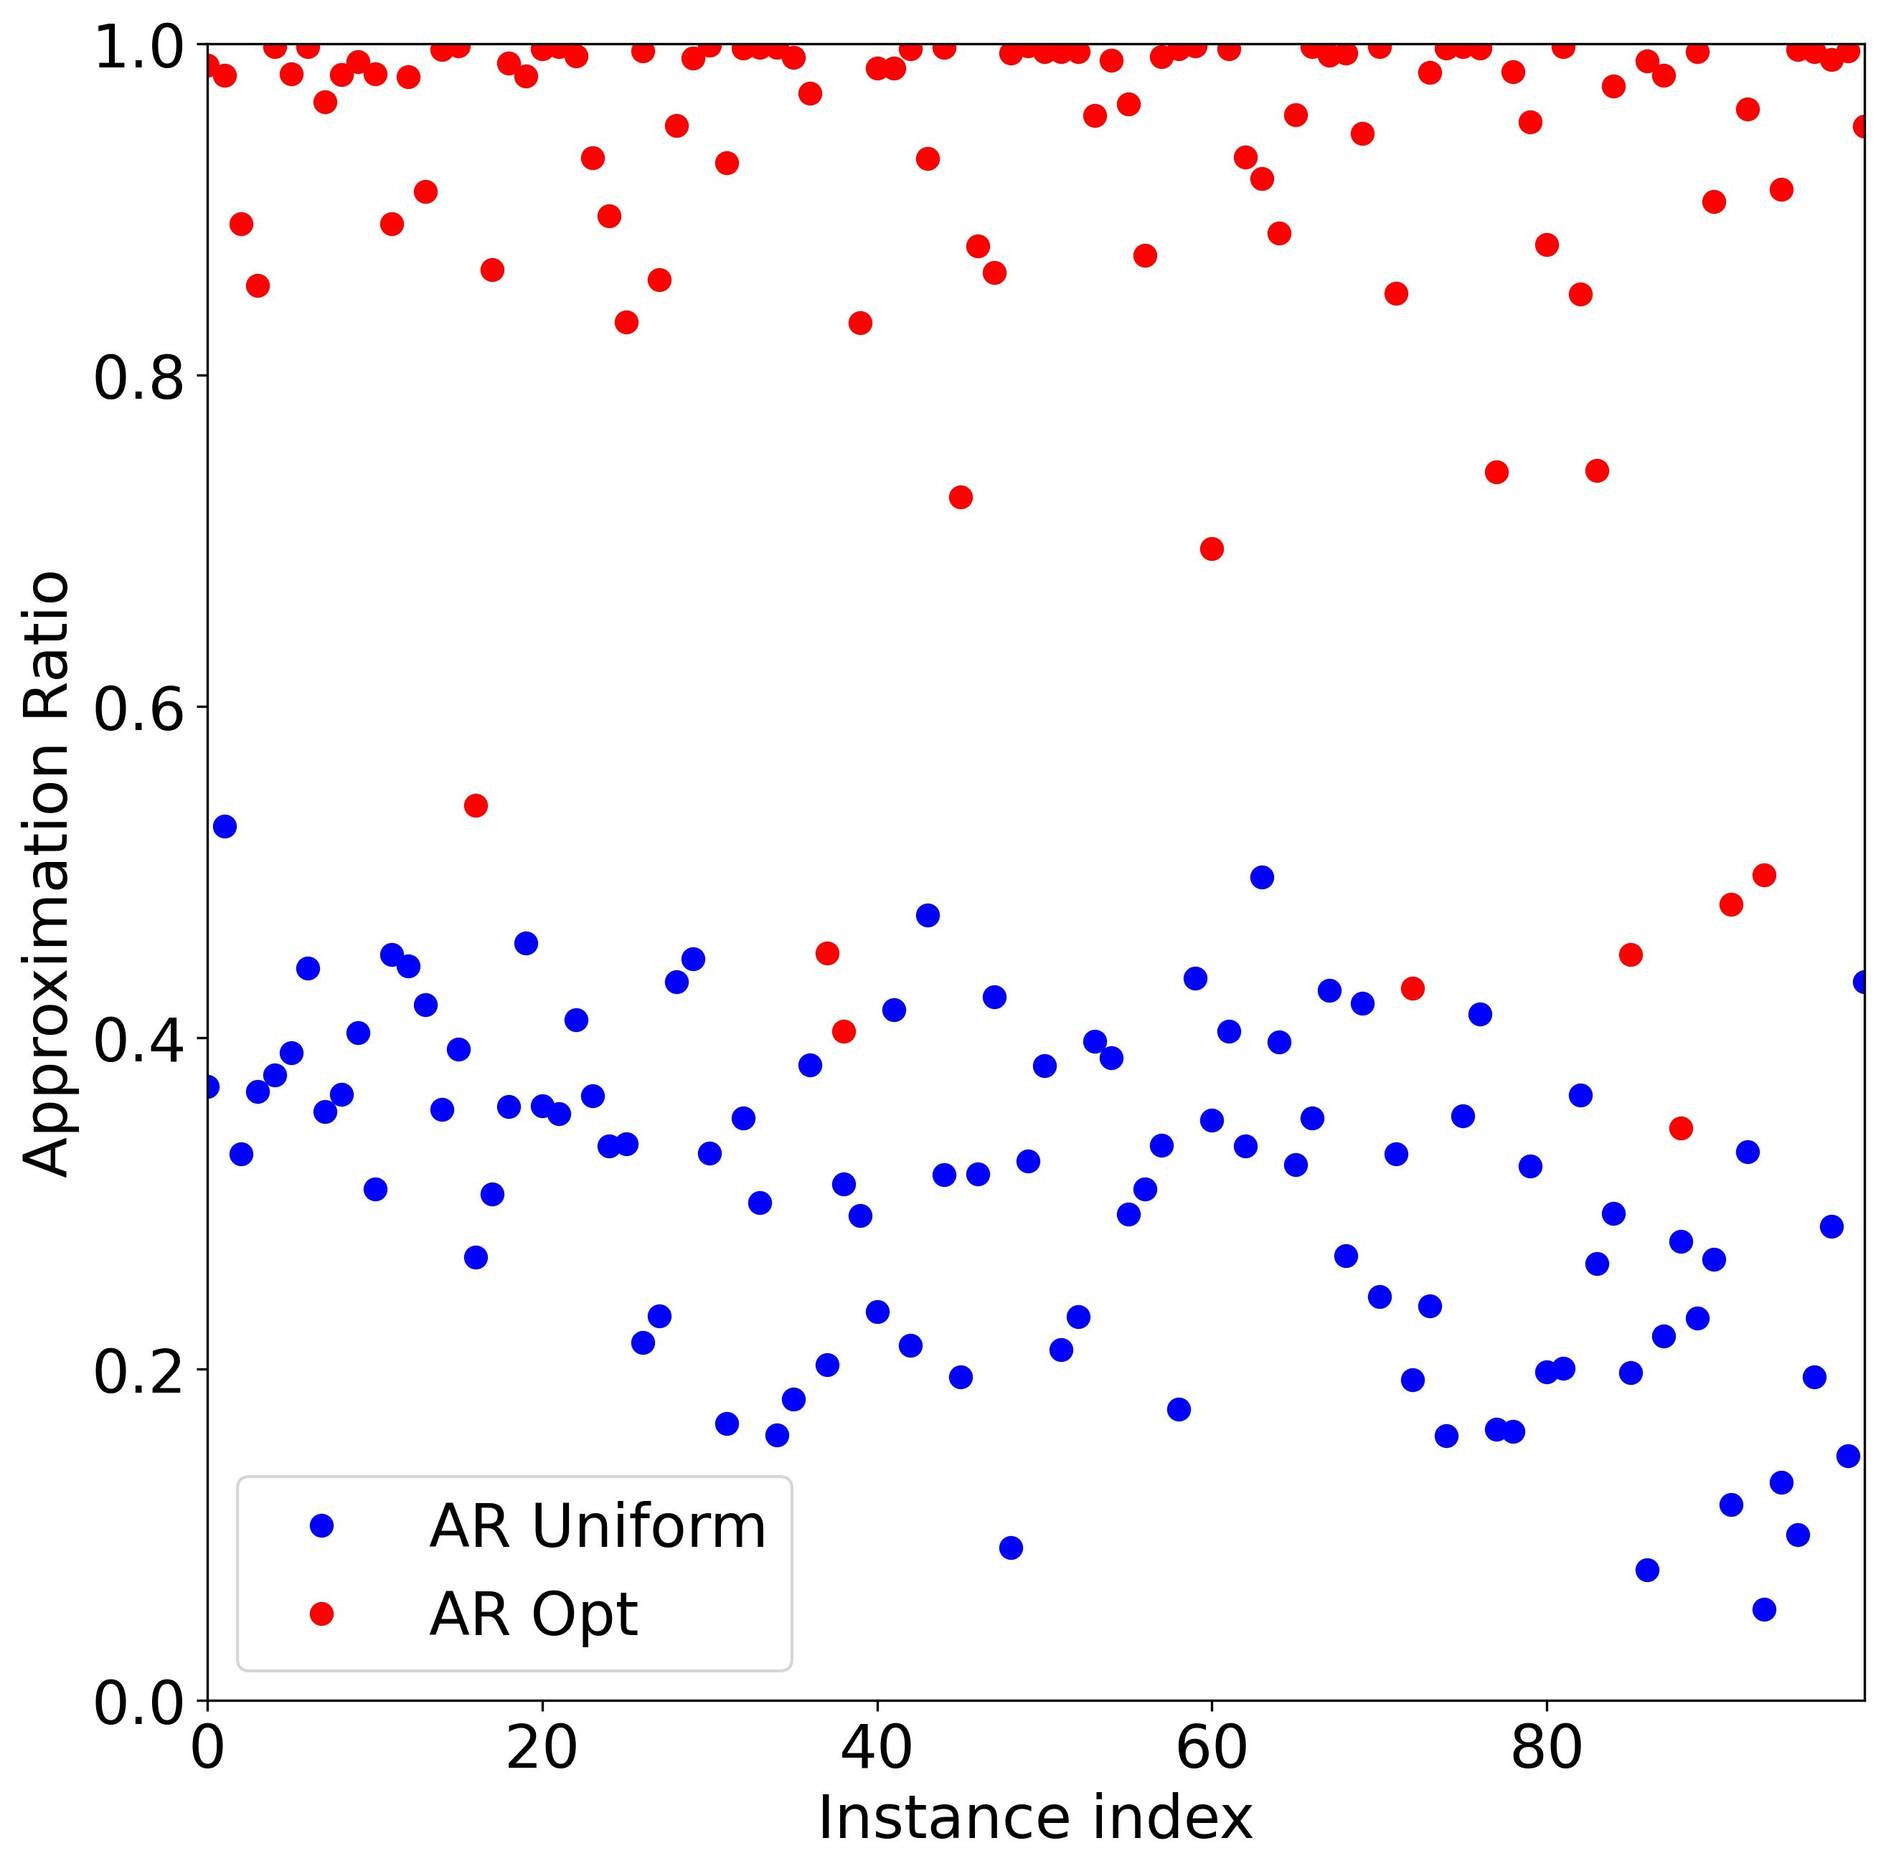
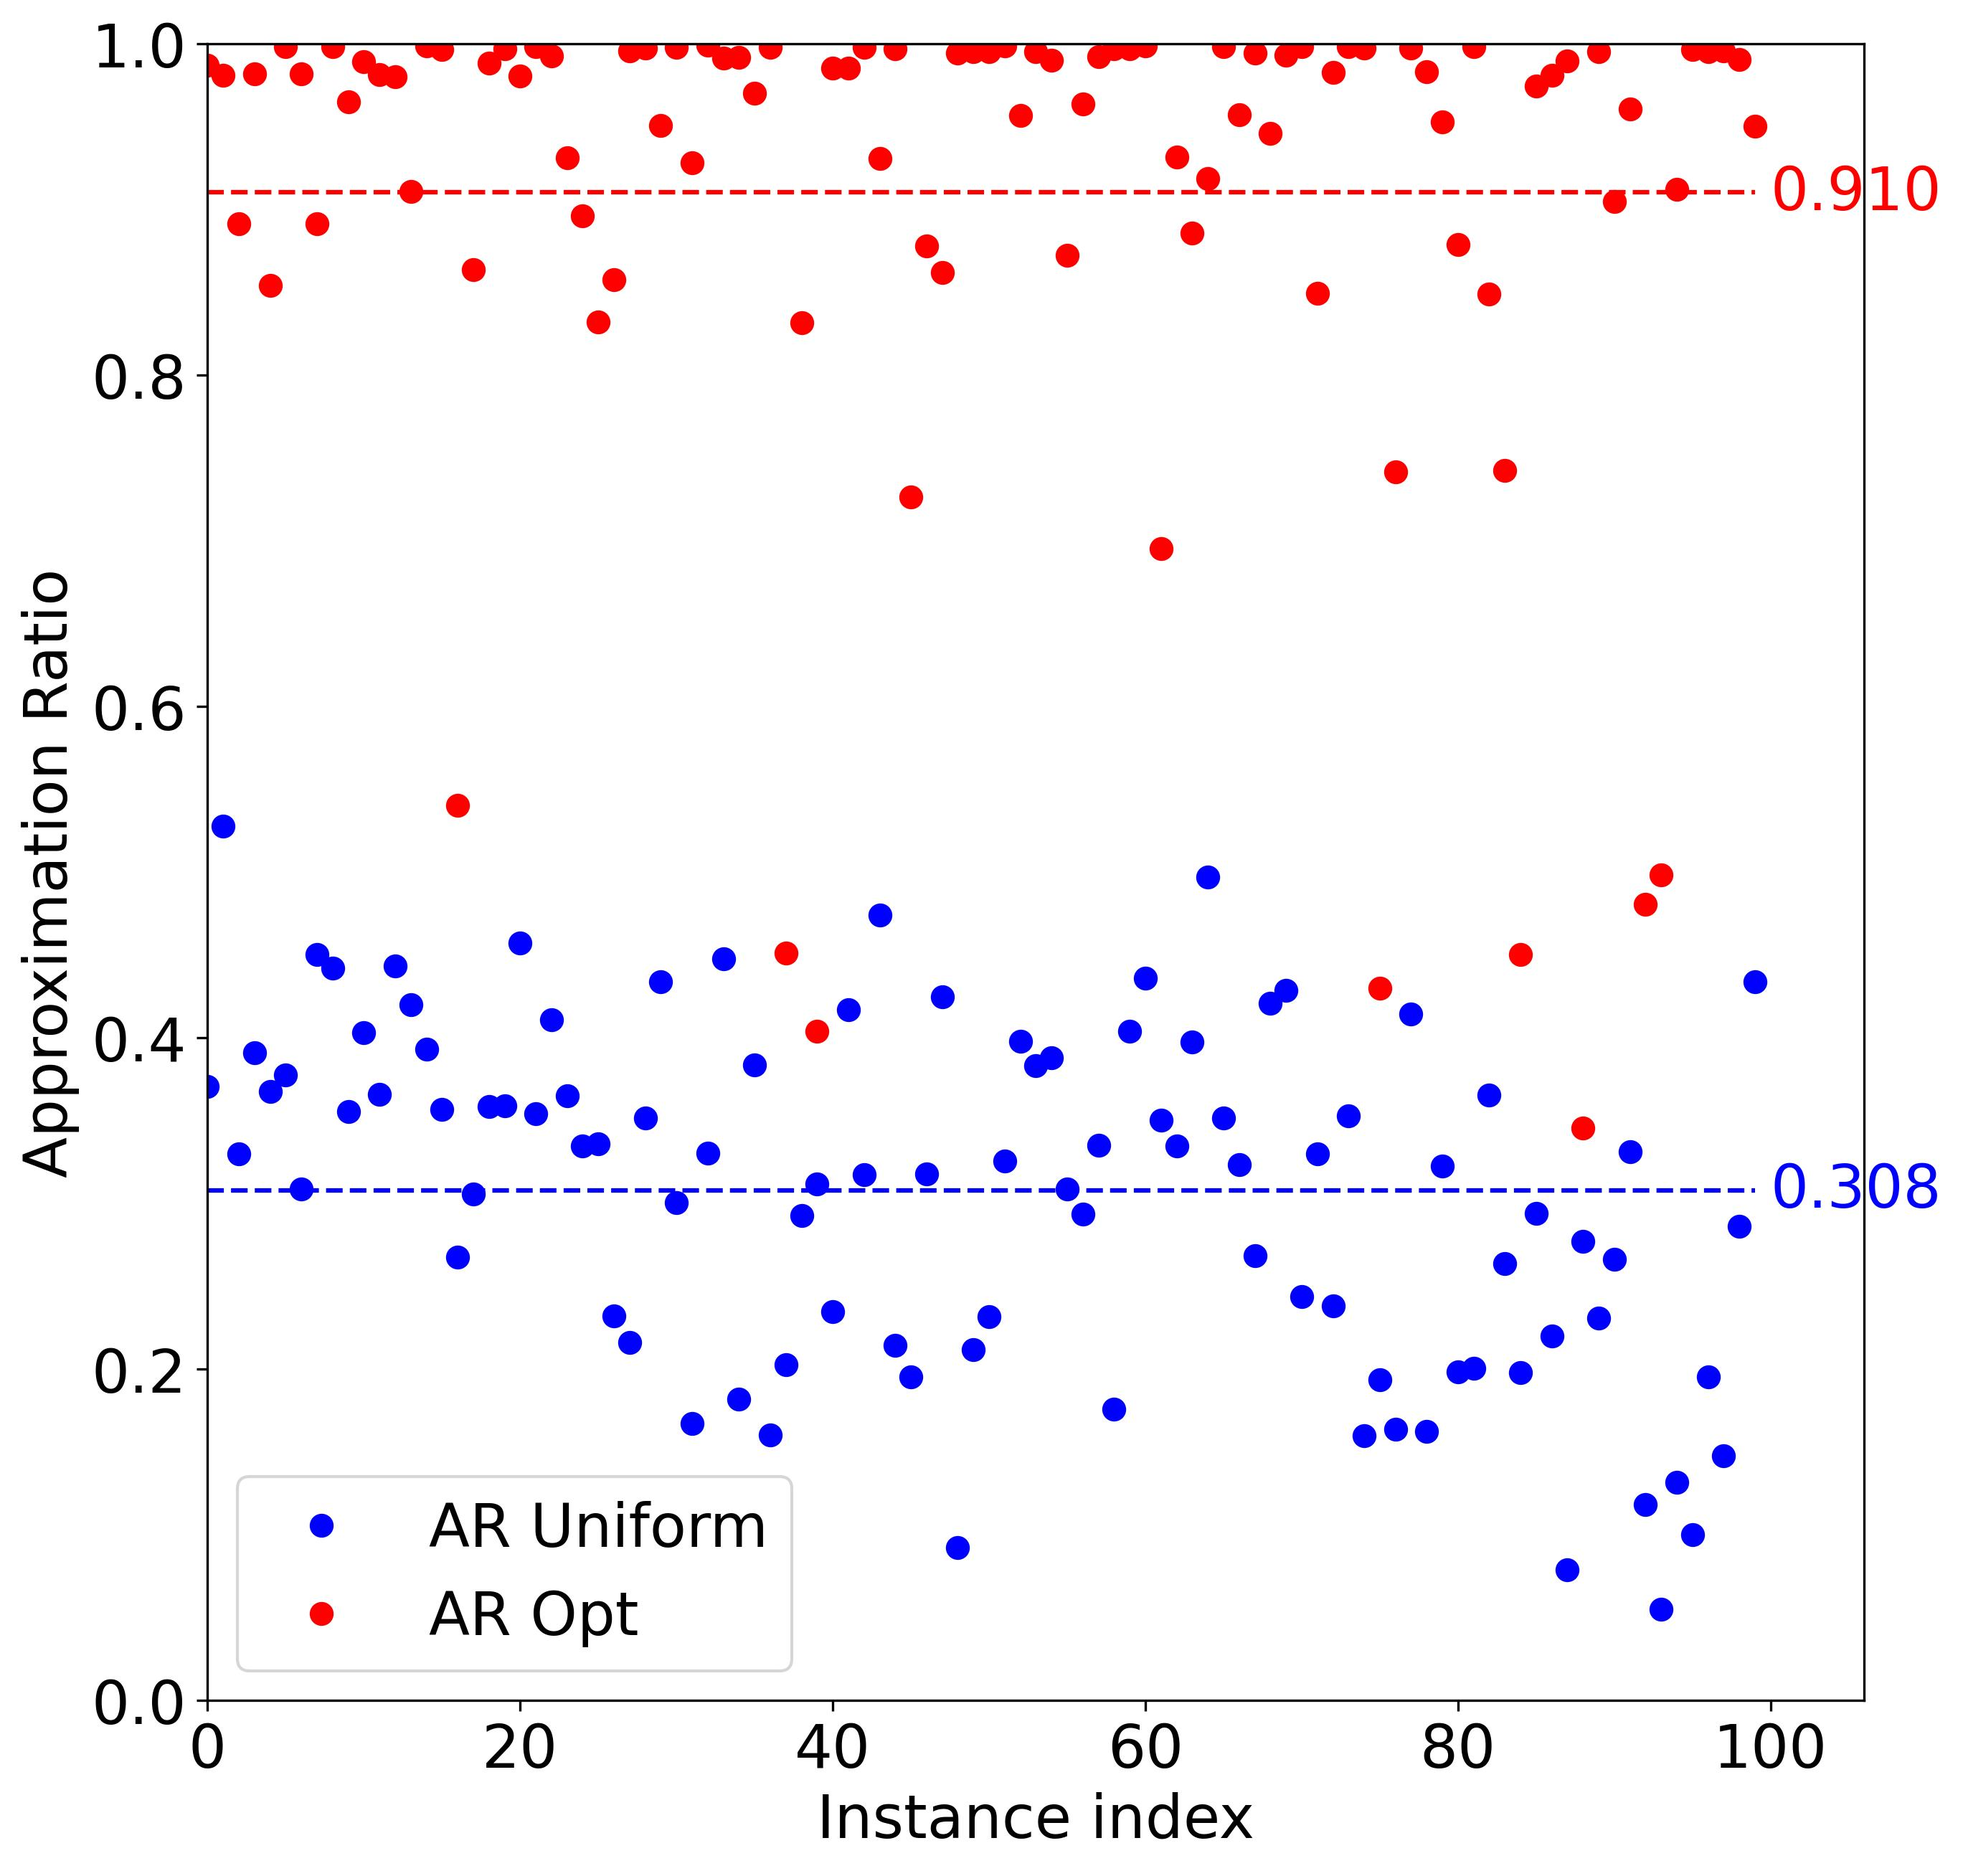
Adds average line to AR vs instance plot

diff --git a/plots/power_grid_opt.py b/plots/power_grid_opt.py
@@ -80,8 +80,8 @@ def plot_average_histories():
 def plot_history_diff():
     """Plots differences between the two configured solver curves."""
     num_generators = [5]
-    solver_ids = ["hybrid/nl_1/uniform", "uniform", "hybrid/nl_1"]
-    ref_ind = 2
+    solver_ids = ["hybrid/nl_1/uniform", "uniform"]
+    ref_ind = 0
     violation_tolerance = 1e-10
 
     history_data = load_histories(num_generators, solver_ids, ref_ind, violation_tolerance)
@@ -99,9 +99,15 @@ def plot_ar_vs_instance():
     """Plots `ar_uniform_fun` and `ar_opt_fun` against row index for the configured generator count."""
     num_generators = 5
     df = load_dfs(num_generators, ["hybrid/nl_1"], 0)[0]
+    ar_uniform_average = df["ar_uniform"].mean()
+    ar_opt_average = df["ar_opt"].mean()
     lines = [Line(np.arange(len(df)), df["ar_uniform"], color=0, style="none", label="AR Uniform"),
-             Line(np.arange(len(df)), df["ar_opt"], color=1, style="none", label="AR Opt")]
-    plot_general(lines, axis_labels=("Instance index", "Approximation Ratio"), boundaries=(0, 99, 0, 1))
+             Line([0, len(df) - 1], [ar_uniform_average] * 2, color=0, marker="none", style="--"),
+             Line(np.arange(len(df)), df["ar_opt"], color=1, style="none", label="AR Opt"),
+             Line([0, len(df) - 1], [ar_opt_average] * 2, color=1, marker="none", style="--")]
+    plot_general(lines, axis_labels=("Instance index", "Approximation Ratio"), boundaries=(0, len(df) + 6, 0, 1))
+    plt.text(len(df), ar_uniform_average, f"{ar_uniform_average:.3f}", color=lines[1].color, va="center")
+    plt.text(len(df), ar_opt_average, f"{ar_opt_average:.3f}", color=lines[3].color, va="center")
     save_figure()
 
 
@@ -228,8 +234,8 @@ def get_average_normalized_history(time_grid: Sequence[float], solver_histories:
 if __name__ == "__main__":
     # plot_instance_objective_histories()
     # plot_average_histories()
-    plot_history_diff()
-    # plot_ar_vs_instance()
+    # plot_history_diff()
+    plot_ar_vs_instance()
     # plot_ar_diff_vs_instance()
     # plot_average_ar_vs_generators()
     plt.show()
